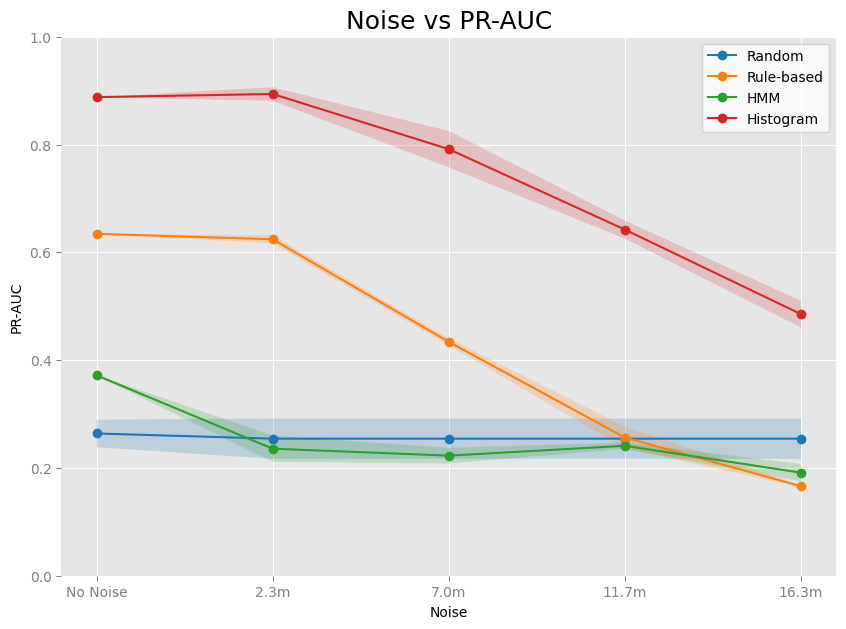
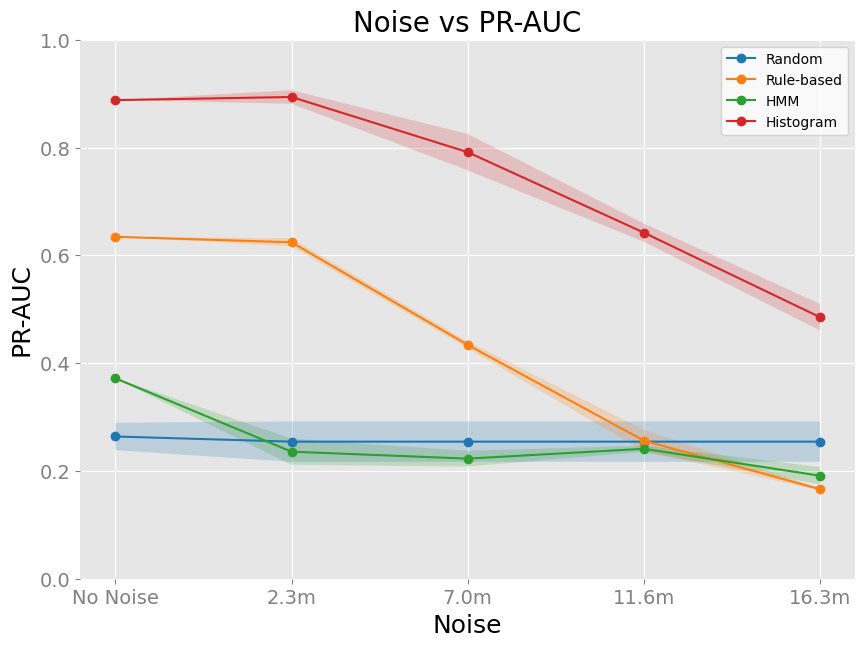
added new figures for main experiments with adjusted label fontsizes

diff --git a/ChangeDetection/utils/metrics.py b/ChangeDetection/utils/metrics.py
@@ -325,18 +325,18 @@ def x_vs_fscore(x, labels, stds=None, xlabel=None, folder='./dummy_results/',
     # Plot the standard deviation if enabled
     if stds is not None:
         fscores_random_std, fscores_rulebased_std, fscores_hist_std, fscores_hmm_std = stds
-        # ax = plt.gca()
-        print(fscores_rulebased_std)
         plt.fill_between(labels, fscores_random - fscores_random_std, fscores_random + fscores_random_std, alpha=0.2)
         plt.fill_between(labels, fscores_rulebased - fscores_rulebased_std, fscores_rulebased + fscores_rulebased_std, alpha=0.2)
         plt.fill_between(labels, fscores_hmm - fscores_hmm_std, fscores_hmm + fscores_hmm_std, alpha=0.2)
         plt.fill_between(labels, fscores_hist - fscores_hist_std, fscores_hist + fscores_hist_std, alpha=0.2)
     
     # Set axes labels, title, legend and y limit
-    plt.ylabel('F-Score')
+    plt.ylabel('F-Score', fontsize=18)
+    plt.xticks(fontsize=14)
+    plt.yticks(fontsize=14)
     if xlabel is not None:
-        plt.xlabel(xlabel)
-    plt.title(f'{x} vs F-Score', fontsize=18)
+        plt.xlabel(xlabel, fontsize=18)
+    plt.title(f'{x} vs F-Score', fontsize=20)
     plt.legend(['Random', 'Rule-based', 'HMM', 'Histogram'])
     plt.ylim(0, 1)
     
@@ -375,18 +375,18 @@ def x_vs_prauc(x, labels, stds=None, xlabel=None, folder='./dummy_results/',
     # Plot the standard deviation if enabled
     if stds is not None:
         prauc_random_std, prauc_rulebased_std, prauc_hist_std, prauc_hmm_std = stds
-        # ax = plt.gca()
-        print(prauc_rulebased_std)
         plt.fill_between(labels, prauc_random - prauc_random_std, prauc_random + prauc_random_std, alpha=0.2)
         plt.fill_between(labels, prauc_rulebased - prauc_rulebased_std, prauc_rulebased + prauc_rulebased_std, alpha=0.2)
         plt.fill_between(labels, prauc_hmm - prauc_hmm_std, prauc_hmm + prauc_hmm_std, alpha=0.2)
         plt.fill_between(labels, prauc_hist - prauc_hist_std, prauc_hist + prauc_hist_std, alpha=0.2)
 
     # Set axes labels, title, legend and y limit
-    plt.ylabel('PR-AUC')
+    plt.ylabel('PR-AUC', fontsize=18)
+    plt.xticks(fontsize=14)
+    plt.yticks(fontsize=14)
     if xlabel is not None:
-        plt.xlabel(xlabel)
-    plt.title(f'{x} vs PR-AUC', fontsize=18)
+        plt.xlabel(xlabel, fontsize=18)
+    plt.title(f'{x} vs PR-AUC', fontsize=20)
     plt.legend(['Random', 'Rule-based', 'HMM', 'Histogram'])
     plt.ylim(0, 1)
     
